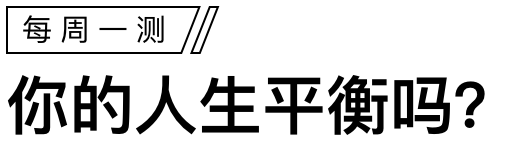
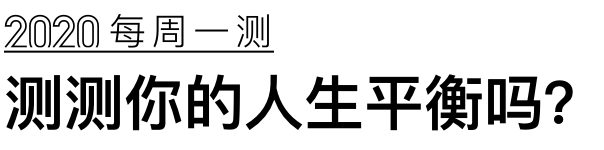
修改20 年1、1

Changed region(s): [[0.0, 0.48, 0.9575, 0.9067], [0.0, 0.0267, 0.4633, 0.3733]]

diff --git a/src/views/Composite.vue b/src/views/Composite.vue
@@ -3,7 +3,7 @@
 	<div class="com-ts">长按下方图片，『保存图片』或『发送给朋友』</div>
 	<img ref="myImg" src="" class="com-bc-img"/>
 	<div class="com-can">
-		<canvas ref="myChartI" width="630px" height="1240px"></canvas>
+		<canvas ref="myChartI" width="630px" height="1340px"></canvas>
 	</div>
   </div>
 </template>
@@ -61,12 +61,12 @@ export default {
 			let that = this;
 			
 			that.ctx.fillStyle = that.bgColor(mObj.tjImg);
-			that.ctx.fillRect(0,0,630,1240);
+			that.ctx.fillRect(0,0,630,1340);
 			that.ctx.font="28px Arial";
 			that.ctx.fillStyle="#000000";
-			that.ctx.fillText("扫 描 二 维 码",430,1190);
-			that.ctx.font="22px Arial";
-			that.ctx.fillText("测测你的人生是否平衡",385,1220);
+			that.ctx.fillText("扫 码 测 一 测",430,1320);
+			// that.ctx.font="22px Arial";
+			// that.ctx.fillText("测测你的人生是否平衡",385,1320);
 			
 			let mName = mObj.user?mObj.user.nickname:'';
 			that.ctx.fillStyle="#000000";
@@ -80,7 +80,7 @@ export default {
 				that.drawText(that.ctx,mObj.daMS[0],95,895,300,32);
 			}
 			if(mObj.daMS.length >1){
-				that.drawText(that.ctx,mObj.daMS[1],88,1060,300,32);
+				that.drawText(that.ctx,mObj.daMS[1],88,1110,300,32);
 			}
 
 			that.updateImg();
@@ -106,7 +106,7 @@ export default {
 			let loadBS = new Image();//底分前图标
 			loadBS.src = that.loadBS;
 			loadBS.onload = ()=> {
-				that.ctx.drawImage(loadBS,32,1035);
+				that.ctx.drawImage(loadBS,32,1085);
 				that.updateImg();
 			}; 
 
@@ -120,21 +120,21 @@ export default {
 			let loadFGX = new Image();//最底线图标
 			loadFGX.src = that.loadFGX;
 			loadFGX.onload = ()=> {
-				that.ctx.drawImage(loadFGX,32,1198);
+				that.ctx.drawImage(loadFGX,32,1298);
 				that.updateImg();
 			}; 
 
 			let loadEWM = new Image();//二维码图标
 			loadEWM.src = that.loadEWM;
 			loadEWM.onload = ()=> {
-				that.ctx.drawImage(loadEWM,430,980);
+				that.ctx.drawImage(loadEWM,430,1100);
 				that.updateImg();
 			}; 
 
 			let mJGImg = new Image();//数据图
 			mJGImg.src = that.mJGImg;
 			mJGImg.onload = ()=> {
-				that.ctx.drawImage(mJGImg,360,680,240,240);
+				that.ctx.drawImage(mJGImg,360,660,260,260);
 				that.updateImg();
 			}; 
 

diff --git a/src/views/MResult.vue b/src/views/MResult.vue
@@ -8,6 +8,13 @@
 	<result-text v-for="(slide, index) in mResObj && mResObj.daMS" :key="index" >{{slide}}</result-text>
 	<div @click="minvite" class="but-vc acto">保存测试结果</div>
 	<div @click="mreading" class="but-vl acto">再测试一次</div>
+	<dividing-line v-if="mBooks.length > 0">推荐书单</dividing-line>
+	<recommended-book v-for="(slides, indexs) in mBooks" :key="indexs" :murl="slides.url">
+		<img slot="reci" :src="'http://v.51coach.com/wwlyweb/'+slides.img" class="rec-all-i" />
+		<div slot="rect">《{{slides.title}}》</div>
+		<div slot="recc">{{slides.cont}}</div>
+		<div slot="recb"></div>
+	</recommended-book>
   </div>
 </template>
 
@@ -15,10 +22,12 @@
 import {mapGetters} from 'vuex';
 import dividingLine from '@/components/dividingLine.vue';
 import resultText from '@/components/resultText.vue';
+import recommendedBook from '@/components/recommendedBook.vue';
 import Chart from 'chart.js';
 export default {
 	data () {
 		return {
+			mBooks:[],
 			ctx:null,
 			mChArr:[0, 0, 0, 0, 0, 0,0, 0],
 			mtsimg:''
@@ -26,7 +35,8 @@ export default {
 	},
 	components: {
 	  dividingLine,
-	  resultText
+	  resultText,
+	  recommendedBook
 	},
 	computed:{
 		...mapGetters([
@@ -48,6 +58,9 @@ export default {
 	methods: {
 		updateData(mObj){
 			if(mObj){
+				if(mObj.daImg){
+					this.mBooks = this.getRandomArrayElements(mObj.daImg, 3);
+				}
 				if(mObj.tjImg){
 					this.mtsimg = 'http://v.51coach.com/wwlyweb/'+this.mResObj.tjImg;
 				}
@@ -63,6 +76,19 @@ export default {
 		},
 		mreading(e){
 			this.$router.push({path:'/topic'});
+		},
+		getRandomArrayElements(arr, count){
+			let shuffled = arr.slice(0), i = arr.length, min = i - count, temp, index;
+			if(min <=0){
+				return shuffled;
+			}
+			while (i-- > min) {
+			    index = Math.floor((i + 1) * Math.random());
+			    temp = shuffled[index];
+			    shuffled[index] = shuffled[i];
+			    shuffled[i] = temp;
+			}
+			return shuffled.slice(min);
 		},
 		setChart(mDaan){
 			let mArr = this.mChArr;
@@ -143,7 +169,7 @@ export default {
 						},
 						pointLabels:{
 							fontColor:"#000",
-							fontSize:20//x轴文字
+							fontSize:32//x轴文字
 						},
 					},
 					tooltips: {

diff --git a/src/views/Index.vue b/src/views/Index.vue
@@ -2,8 +2,8 @@
   <div class="container">
 	<div class="ind-all">
 		<img src="@/assets/cp_ct.png" class="ind-ct-img" />
-		<div class="ind-text">本测试是通过自己工作、生活中的一些情况，觉察到平时忽略的部分，找出希望有所改变或强化的内容，然后通过相应的书籍学习以及提升。</div>
-		<div class="ind-text">测试共24道题，为了保证测试效果，请遵守以下规则：</div>
+		<div class="ind-text">人生平衡状态测试，可以帮助你基于工作、生活中的具体情况，做人生8维度的梳理，视觉化呈现有待改变和强化的方向，让你的努力事半功倍。</div>
+		<div class="ind-text">温馨提示：测试结果和你最近的状态有关，建议每周一测，让你的成长更有方向。测试共24道题目，为了保证测试结果，请遵守以下规则：</div>
 		<div class="ind-xz">
 			<div class="ind-xz-one">
 				<img src="@/assets/ind_sj.png" class="ind-xz-one-img"/>

diff --git a/src/views/Result.vue b/src/views/Result.vue
@@ -171,7 +171,7 @@ export default {
 						},
 						pointLabels:{
 							fontColor:"#000",
-							fontSize:20//x轴文字
+							fontSize:26//x轴文字
 						},
 					},
 					tooltips: {
